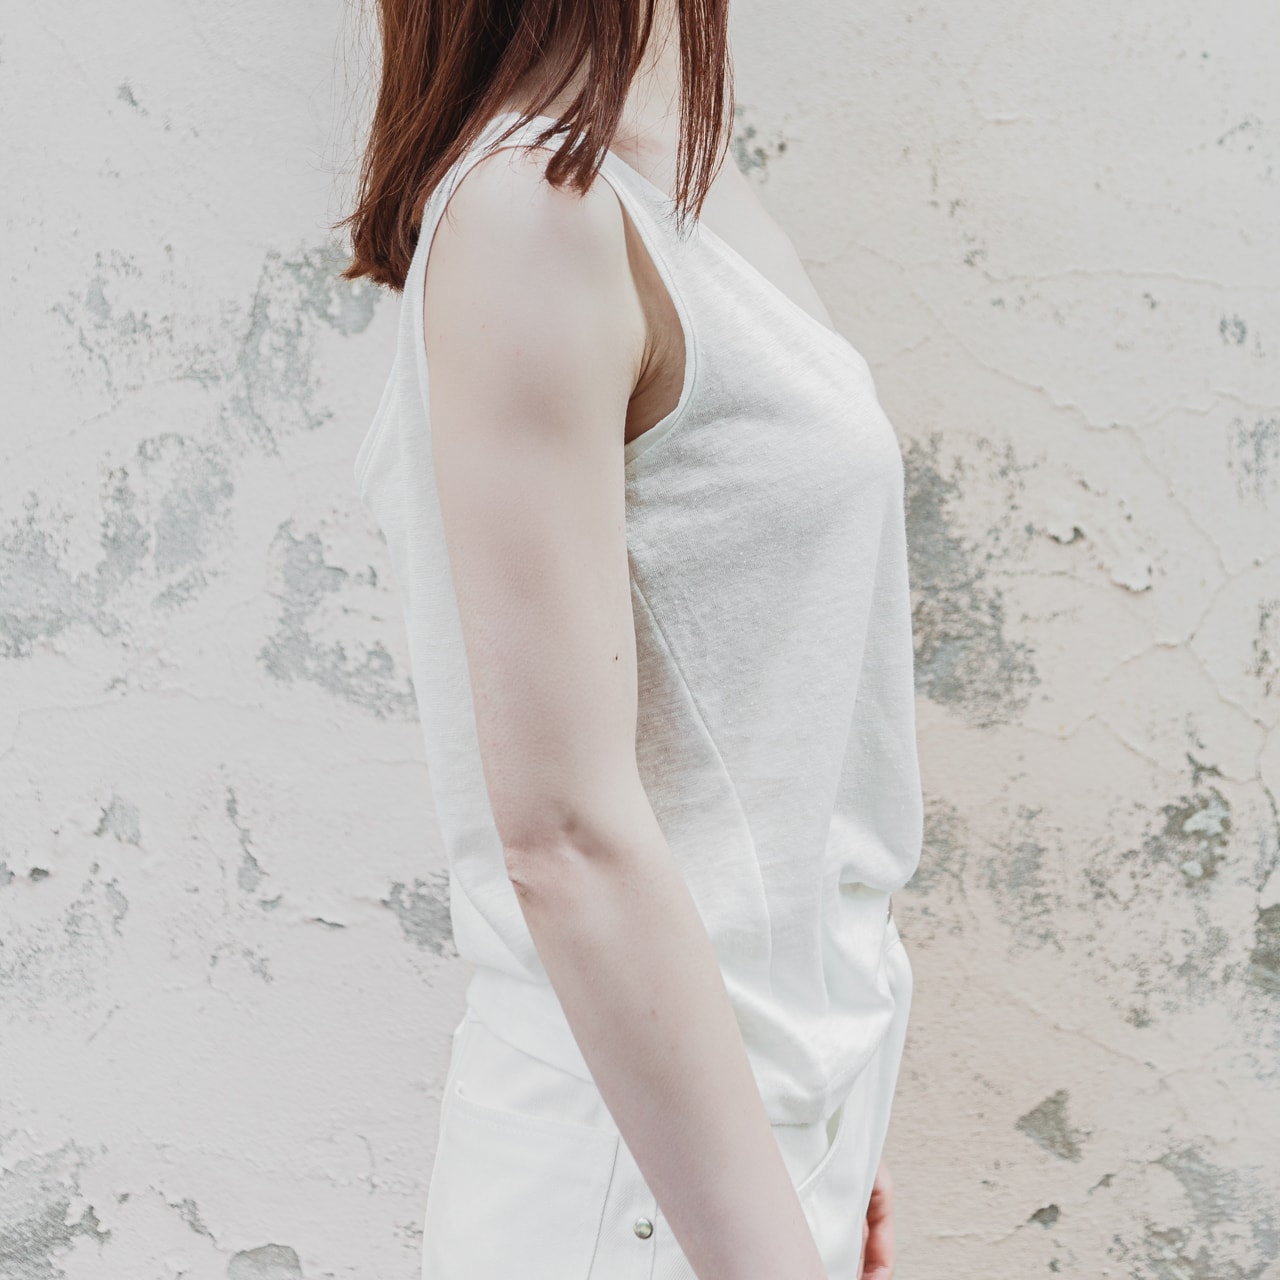
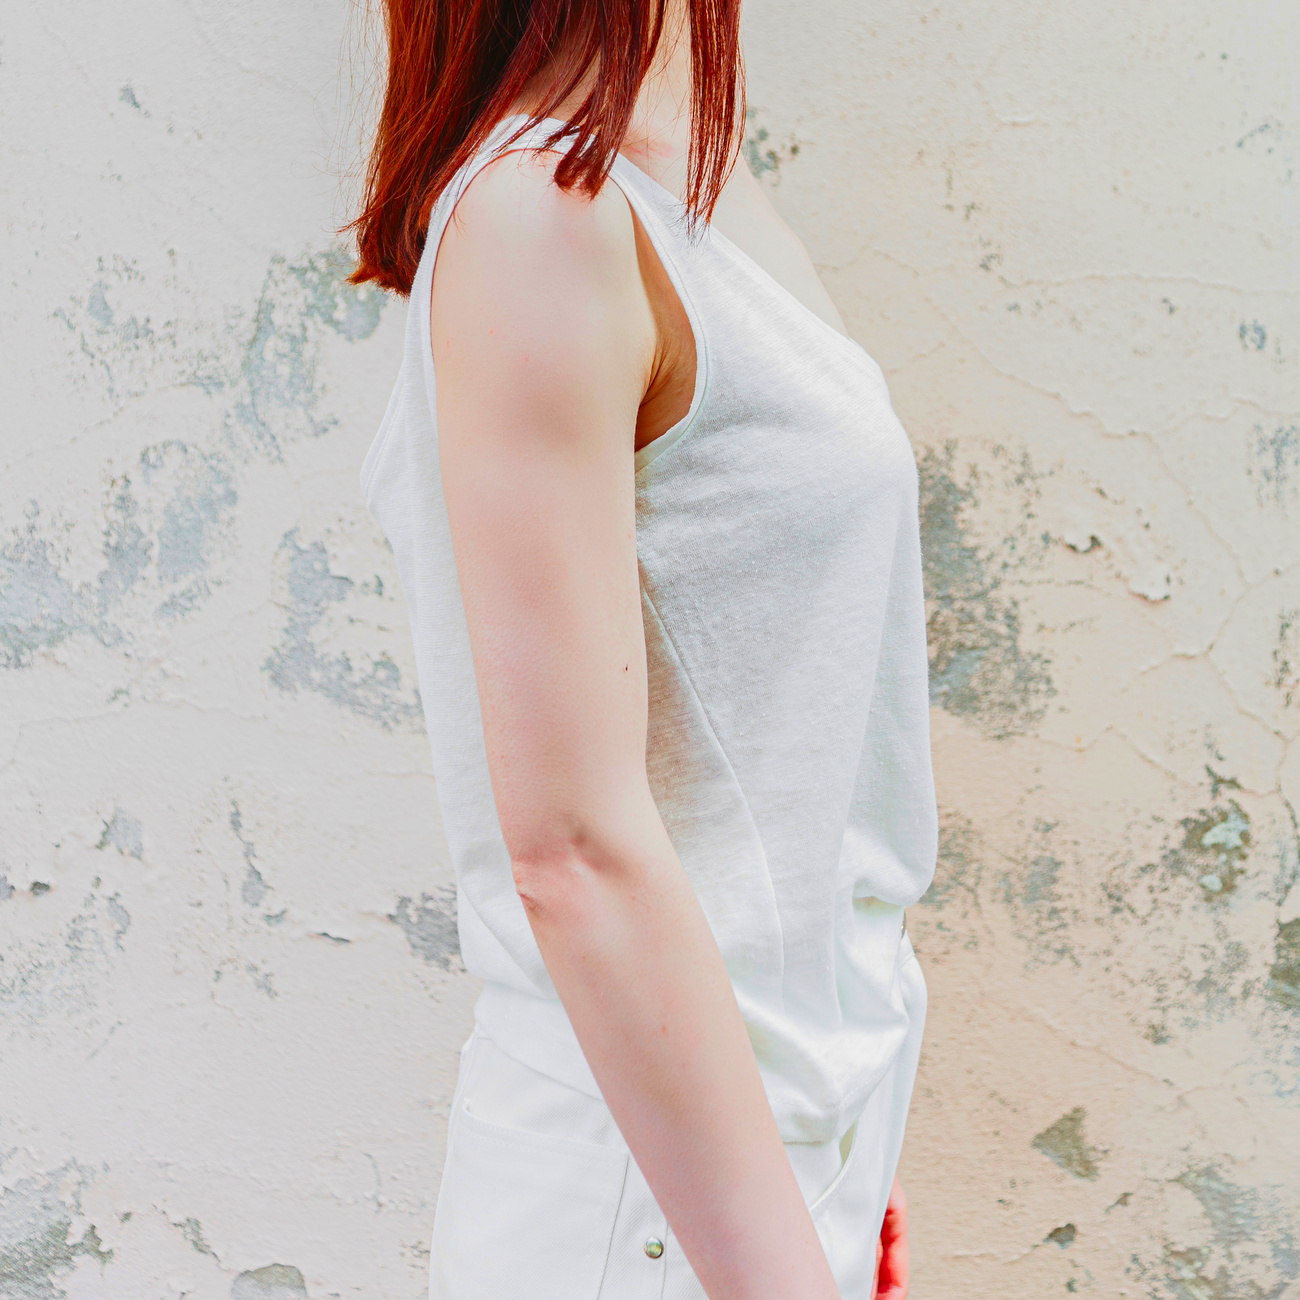
Updated product photos, added one more product

diff --git a/src/components/ProductInfo.tsx b/src/components/ProductInfo.tsx
@@ -122,8 +122,7 @@ export default class ProductInfo extends Component {
                 Receive your favourite items(s) within 5 to 7 days once shipped. For countries
                 outside of Europe shipping may take longer, please enquire for specific country. All
                 items are shipped within 3 business days from placing your order, with the exception
-                of pre-ordered pieces. Pre-order pieces are made within 1 to 2 weeks. Email us at
-                <a href="mailto:connect@mynalabel.com" className="blackFont">connect@mynalabel.com</a>.
+                of pre-ordered pieces. Pre-order pieces are made within 1 to 2 weeks. Email us at <a href="mailto:connect@mynalabel.com" className="blackFont">connect@mynalabel.com</a>.
                 You have 14 days to change your mind. Sale orders are non refundable.
               </div>
             </div>

diff --git a/src/pages/shop-collections.tsx b/src/pages/shop-collections.tsx
@@ -124,6 +124,12 @@ export default class Index extends React.Component {
             price: '€69',
           },
           {
+            name: 'LILI Top',
+            link: '/lili-top',
+            mainPhoto: '/product_photos/lili-top-shadow-01.jpg',
+            price: '€69',
+          },
+          {
             name: 'IRIS Vest',
             link: '/iris-vest',
             mainPhoto: '/product_photos/iris-vest-01.jpg',
